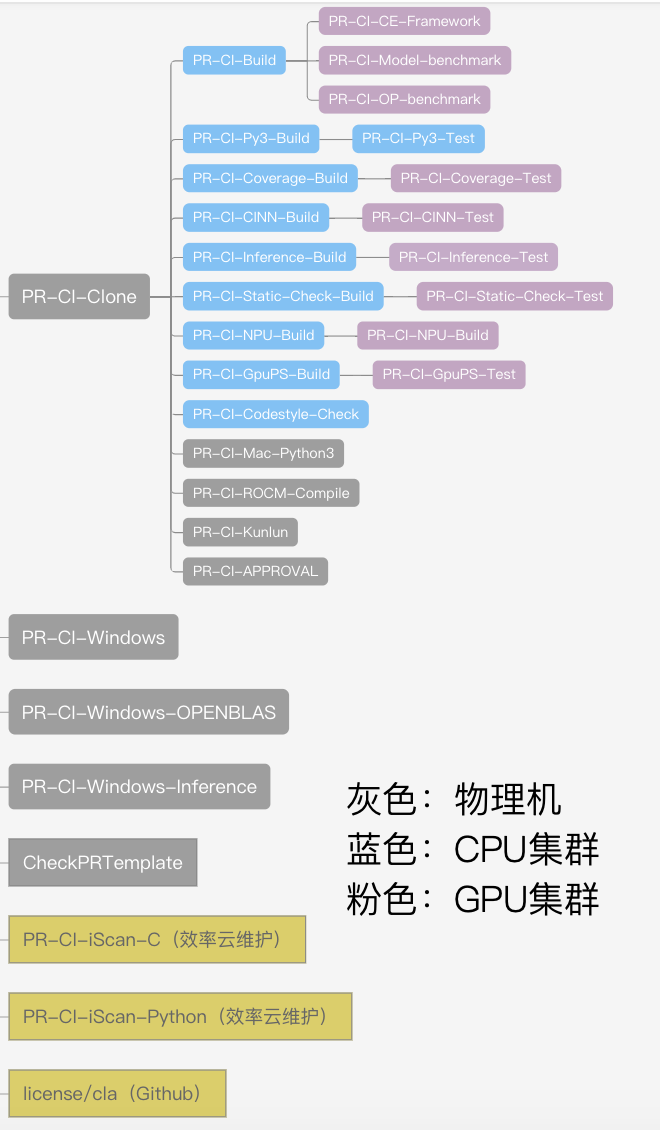
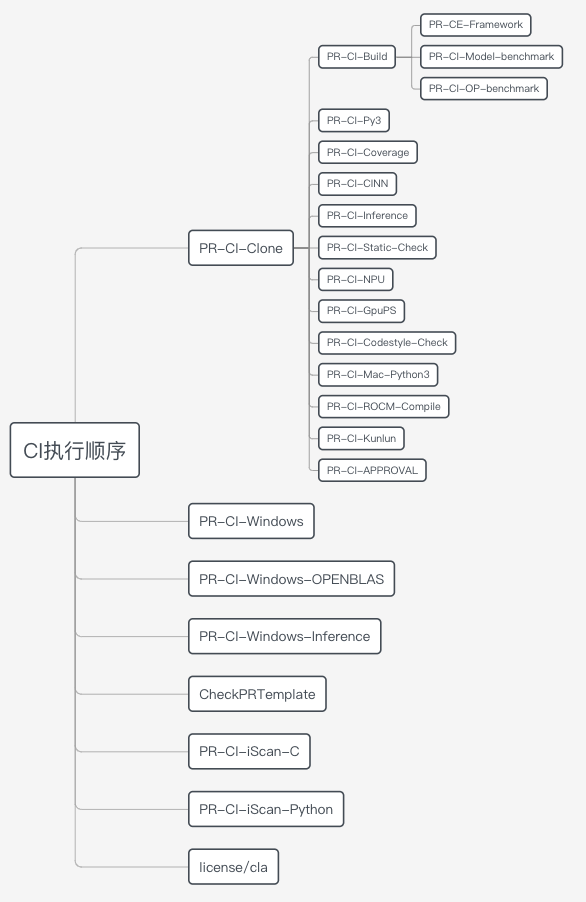
update ci_manual

diff --git a/docs/dev_guides/git_guides/paddle_ci_manual_cn.md b/docs/dev_guides/git_guides/paddle_ci_manual_cn.md
@@ -1,232 +1,149 @@
-# Paddle CI 手册
+# Paddle CI 测试详解
 
-## 整体介绍
+## 一、概述
 
-当你提交一个 PR`(Pull_Request)`，你的 PR 需要经过一些 CI`(Continuous Integration)`，以触发`develop`分支的为例为你展示 CI 执行的顺序：
+持续集成（Continuous Integration，简称 CI）测试是项目开发与发布流水线中的重要一环。[PaddlePaddle/Paddle](https://github.com/PaddlePaddle/Paddle) 是一个多人协作开发项目，为了尽可能保证合入主干的代码质量，提高代码合入效率，开发者在提交一个 PR（Pull Request）时，将自动触发必要的 CI 测试任务，主要检测：
+
+- 是否签署 CLA 协议。
+- PR 描述是否符合规范。
+- 是否通过不同平台`（Linux/Mac/Windows/XPU/NPU/DCU等）`的编译与单测（单元测试）。
+- 是否通过静态代码扫描工具的检测。
+
+CI 测试包含的具体测试任务和执行顺序如下图所示：
 
 ![ci_exec_order.png](../images/ci_exec_order.png)
 
-如上图所示，提交一个`PR`，你需要：
+如上图所示，CI 测试任务将从左向右逐层执行，同一层任务并发执行。
 
-- 签署 CLA 协议
-- PR 描述需要符合规范
-- 通过不同平台`（Linux/Mac/Windows/XPU/NPU 等）`的编译与单测
-- 通过静态代码扫描工具的检测
+> 说明：如果 PR 中仅修改了文档内容，可在 `git commit` 时在描述信息中添加 `'test=document_fix'`关键字，如 `git commit -m 'message, test=document_fix',`即可只触发 PR-CI-Static-Check，仅检查文档是否符合规范，不做其他代码检查。
 
-**<font color=red>需要注意的是：如果你的 PR 只修改文档部分，你可以在 commit 中添加说明（commit message）以只触发文档相关的 CI，写法如下：</font>**
+提交 PR 后，请关注 PR 页面的 CI 测试进程，一般会在几个小时内完成。
 
-```shell
-# PR 仅修改文档等内容，只触发 PR-CI-Static-Check
-git commit -m 'test=document_fix'
-```
+- 测试项后出现绿色的对勾，表示本条测试项通过。
+- 测试项后出现红色的叉号，并且后面显示 `Required`，则表示本条测试项不通过（不显示 `Required` 的任务未通过，也不影响代码合入，可不处理）。
 
-## 各流水线介绍
+为了便于理解和处理 CI 测试问题，本文将逐条介绍各个 CI 测试项，并提供 CI 测试不通过的参考解决方法。
 
-下面以触发`develop`分支为例，分平台对每条`CI`进行简单介绍。
+## 二、CI 测试项介绍
 
-### CLA
+下面分平台对每条 CI 测试项进行简单介绍。
 
-贡献者许可证协议[Contributor License Agreements](https://cla-assistant.io/PaddlePaddle/Paddle)是指当你要给 Paddle 贡献代码的时候，需要签署的一个协议。如果不签署那么你贡献给 Paddle 项目的修改，即`PR`会被 GitHub 标志为不可被接受，签署了之后，这个`PR`就是可以在 review 之后被接受了。
+### **license/cla**
+
+- **【条目描述】**首次为 [PaddlePaddle/Paddle](https://github.com/PaddlePaddle/Paddle) 仓库贡献时，需要签署 [贡献者许可协议（Contributor License Agreement，CLA）](https://cla-assistant.io/PaddlePaddle/Paddle)，才可以合入代码。
+- **【触发条件】**自动触发。
 
 ### CheckPRTemplate
 
-检查 PR 描述信息是否按照模板填写。
+- **【条目描述】**检查PR描述信息是否按照模板填写，模板如下：
 
-- 通常 10 秒内检查完成，如遇长时间未更新状态，请 re-edit 一下 PR 描述重新触发该 CI。
-
-```markdown
+```md
 ### PR types
 <!-- One of [ New features | Bug fixes | Function optimization | Performance optimization | Breaking changes | Others ] -->
-(必填)从上述选项中，选择并填写 PR 类型
+(必填)从上述选项中，选择并填写PR类型
 ### PR changes
 <!-- One of [ OPs | APIs | Docs | Others ] -->
-(必填)从上述选项中，选择并填写 PR 所修改的内容
+(必填)从上述选项中，选择并填写PR所修改的内容
 ### Describe
 <!-- Describe what this PR does -->
-(必填)请填写 PR 的具体修改内容
+(必填)请填写PR的具体修改内容
 ```
 
-### Linux 平台
+- **【触发条件】**自动触发。
+- **【注意事项】**通常 10 秒内检查完成，如遇长时间未更新状态，请编辑一下 PR 描述以重新触发。
+
+### Linux 平台测试项
 
 #### PR-CI-Clone
 
-该 CI 主要是将当前 PR 的代码从 GitHub clone 到 CI 机器，方便后续的 CI 直接使用。
-
-#### PR-CI-APPROVAL
-
-该 CI 主要的功能是检测 PR 中的修改是否通过了审批。在其他 CI 通过之前，你可以无需过多关注该 CI, 其他 CI 通过后会有相关人员进行 review 你的 PR。
-
-- 执行脚本：`paddle/scripts/paddle_build.sh assert_file_approvals`
+- **【条目描述】**将当前 PR 的代码从 GitHub Clone 到 CI 测试执行的机器，方便后续的 CI 直接使用。
+- **【触发条件】**自动触发。
 
 #### PR-CI-Build
 
-该 CI 主要是编译出当前 PR 的编译产物，并且将编译产物上传到 BOS（百度智能云对象存储）中，方便后续的 CI 可以直接复用该编译产物。
-
-- 执行脚本：`paddle/scripts/paddle_build.sh build_pr_dev`
-
-#### PR-CI-Py3
-
-该 CI 主要的功能是为了检测当前 PR 在 CPU、Python3 版本的编译与单测是否通过。
-
-- 执行脚本：`paddle/scripts/paddle_build.sh cicheck_py37`
-
-#### PR-CI-Coverage
-
-该 CI 主要的功能是检测当前 PR 在 GPU、Python3 版本的编译与单测是否通过，同时增量代码需满足行覆盖率大于 90%的要求。
-
-- 编译脚本：`paddle/scripts/paddle_build.sh cpu_cicheck_coverage`
-- 测试脚本：`paddle/scripts/paddle_build.sh gpu_cicheck_coverage`
+- **【条目描述】**生成当前 PR 的编译产物，并将编译产物上传到 BOS（百度智能云对象存储）中，方便后续的 CI 可以直接复用该编译产物。
+- **【执行脚本】**`paddle/scripts/paddle_build.sh build_pr_dev`
+- **【触发条件】**
+  - `PR-CI-Clone`通过后自动触发。
+  - 当PR-CI-Py3任务失败时，会取消当前任务（因PR-CI-Py3失败，当前任务成功也无法进行代码合并，需要先排查PR-CI-Py3失败原因）。
 
 #### PR-CE-Framework
 
-该 CI 主要是为了测试 P0 级框架 API 与预测 API 的功能是否通过。此 CI 使用`PR-CI-Build`的编译产物，无需单独编译。
-
-- 框架 API 测试脚本（[PaddlePaddle/PaddleTest](https://github.com/PaddlePaddle/PaddleTest)）：`PaddleTest/framework/api/run_paddle_ci.sh`
-- 预测 API 测试脚本（[PaddlePaddle/PaddleTest](https://github.com/PaddlePaddle/PaddleTest)）：`PaddleTest/inference/python_api_test/parallel_run.sh `
-
-#### PR-CI-OP-benchmark
-
-该 CI 主要的功能是 PR 中的修改是否会造成 OP 性能下降或者精度错误。此 CI 使用`PR-CI-Build`的编译产物，无需单独编译。
-
-- 执行脚本：`tools/ci_op_benchmark.sh run_op_benchmark`
-
-关于 CI 失败解决方案等详细信息可查阅[PR-CI-OP-benchmark Manual](https://github.com/PaddlePaddle/Paddle/wiki/PR-CI-OP-benchmark-Manual)
+- **【条目描述】**检测框架 API 与预测 API 的核心测试用例是否通过。
+- **【执行脚本】**
+  - [框架 API 测试](https://github.com/PaddlePaddle/PaddleTest)：`PaddleTest/framework/api/run_paddle_ci.sh`
+  - [预测 API 测试](https://github.com/PaddlePaddle/PaddleTest)：`PaddleTest/inference/python_api_test/parallel_run.sh `
+- **【触发条件】**`PR-CI-Build`通过后自动触发，并且使用`PR-CI-Build`的编译产物，无需单独编译。
 
 #### PR-CI-Model-benchmark
 
-该 CI 主要的功能是检测 PR 中的修改是否会导致模型性能下降或者运行报错。此 CI 使用`PR-CI-Build`的编译产物，无需单独编译。
+- **【条目描述】**检测 PR 中的修改是否会导致模型性能下降或者运行报错。
+- **【执行脚本】**`tools/ci_model_benchmark.sh run_all`
+- **【触发条件】**`PR-CI-Build`通过后自动触发，并且使用`PR-CI-Build`的编译产物，无需单独编译。
+- **【注意事项】**本条 CI 测试不通过的处理方法可查阅 [PR-CI-Model-benchmark Manual](https://github.com/PaddlePaddle/Paddle/wiki/PR-CI-Model-benchmark-Manual)。
 
-- 执行脚本：`tools/ci_model_benchmark.sh run_all`
+#### PR-CI-OP-benchmark
 
-关于 CI 失败解决方案等详细信息可查阅[PR-CI-Model-benchmark Manual](https://github.com/PaddlePaddle/Paddle/wiki/PR-CI-Model-benchmark-Manual)
+- **【条目描述】**检测 PR 中的修改是否会造成 OP 性能下降或者精度错误。
+- **【执行脚本】**`tools/ci_op_benchmark.sh run_op_benchmark`
+- **【触发条件】**`PR-CI-Build`通过后自动触发，并且使用`PR-CI-Build`的编译产物，无需单独编译。
+- **【注意事项】**本条 CI 测试不通过的处理方法可查阅 [PR-CI-OP-benchmark Manual](https://github.com/PaddlePaddle/Paddle/wiki/PR-CI-OP-benchmark-Manual)。
 
-#### PR-CI-Static-Check
+#### PR-CI-Py3
 
-该 CI 主要的功能是检查文档是否符合规范，检测`develop`分支与当前`PR`分支的增量的 API 英文文档是否符合规范，以及当变更 API 或 OP 时需要 TPM approval。
+- **【条目描述】**检测当前 PR 在 CPU、Python3 版本的编译与单测是否通过。
+- **【执行脚本】**`paddle/scripts/paddle_build.sh cicheck_py37`
+- **【触发条件】**`PR-CI-Clone`通过后自动触发。
 
-- 编译脚本：`paddle/scripts/paddle_build.sh build_and_check_cpu`
-- 示例文档检测脚本：`paddle/scripts/paddle_build.sh build_and_check_gpu`
+#### PR-CI-Coverage
 
-#### PR-CI-Codestyle-Check
-
-该 CI 主要的功能是检查提交代码是否符合规范，详细内容请参考[代码风格检查指南](./codestyle_check_guide_cn.html)。
-
-- 执行脚本：`paddle/scripts/paddle_build.sh build_and_check_gpu`
-
-#### PR-CI-CINN
-
-该 CI 主要是为了编译含 CINN 的 Paddle，并运行 Paddle-CINN 对接的单测，保证训练框架进行 CINN 相关开发的正确性。
-
-- 编译脚本：`paddle/scripts/paddle_build.sh build_only`
-- 测试脚本：`paddle/scripts/paddle_build.sh test`
-
-#### PR-CI-Inference
-
-该 CI 主要的功能是为了检测当前 PR 对 C++预测库与训练库的编译和单测是否通过。
-
-- 编译脚本：`paddle/scripts/paddle_build.sh build_inference`
-- 测试脚本：`paddle/scripts/paddle_build.sh gpu_inference`
-
-#### PR-CI-GpuPS
-
-该 CI 主要是为了保证 GPUBOX 相关代码合入后编译可以通过。
-
-- 编译脚本：`paddle/scripts/paddle_build.sh build_gpubox`
-
-### MAC
-
-#### PR-CI-Mac-Python3
-
-该 CI 是为了检测当前 PR 在 MAC 系统下 python35 版本的编译与单测是否通过，以及做 develop 与当前 PR 的单测增量检测，如有不同，提示需要 approval。
-
-- 执行脚本：`paddle/scripts/paddle_build.sh maccheck_py35`
-
-### Windows
-
-#### PR-CI-Windows
-
-该 CI 是为了检测当前 PR 在 Windows 系统下 MKL 版本的 GPU 编译与单测是否通过，以及做 develop 与当前 PR 的单测增量检测，如有不同，提示需要 approval。
-
-- 执行脚本：`paddle/scripts/paddle_build.bat wincheck_mkl`
-
-#### PR-CI-Windows-OPENBLAS
-
-该 CI 是为了检测当前 PR 在 Windows 系统下 OPENBLAS 版本的 CPU 编译与单测是否通过。
-
-- 执行脚本：`paddle/scripts/paddle_build.bat wincheck_openblas`
-
-#### PR-CI-Windows-Inference
-
-该 CI 是为了检测当前 PR 在 Windows 系统下预测模块的编译与单测是否通过。
-
-- 执行脚本：`paddle/scripts/paddle_build.bat wincheck_inference`
-
-### XPU 机器
-
-#### PR-CI-Kunlun
-
-该 CI 主要的功能是检测 PR 中的修改能否在昆仑芯片上编译与单测通过。
-
-- 执行脚本：`paddle/scripts/paddle_build.sh check_xpu_coverage`
-
-### NPU 机器
-
-#### PR-CI-NPU
-
-该 CI 主要是为了检测当前 PR 对 NPU 代码编译跟测试是否通过。
-
-- 编译脚本：`paddle/scripts/paddle_build.sh build_only`
-- 测试脚本：`paddle/scripts/paddle_build.sh gpu_cicheck_py35`
-
-### Sugon-DCU 机器
-
-#### PR-CI-ROCM-Compile
-
-该 CI 主要的功能是检测 PR 中的修改能否在曙光芯片上编译通过。
-
-- 执行脚本：`paddle/scripts/musl_build/build_paddle.sh build_only`
-
-### 静态代码扫描
-
-#### PR-CI-iScan-C
-
-该 CI 是为了检测当前 PR 的 C++代码是否可以通过静态代码扫描。
-
-#### PR-CI-iScan- Python
-
-该 CI 是为了检测当前 PR 的 Python 代码是否可以通过静态代码扫描。
+- **【条目描述】**检测当前 PR 在 GPU、Python3 版本的编译与单测是否通过，同时增量代码需满足行覆盖率大于 90% 的要求。可在 PR 页面点击该 CI 后的 details 查看覆盖率，如下图所示：
 
 
+- **【条目描述】**检测当前 PR 的 C++ 代码是否通过 [静态代码扫描](https://clang-analyzer.llvm.org/)。
+- **【触发条件】**自动触发。
 
-## CI 失败如何处理
-### CLA 失败
+#### PR-CI-iScan-Python
 
-- 如果你的 cla 一直是 pending 状态，那么需要等其他 CI 都通过后，点击 Close pull request ，再点击 Reopen pull request ，并等待几分钟（建立在你已经签署 cla 协议的前提下）；如果上述操作重复 2 次仍未生效，请重新提一个 PR 或评论区留言。
-- 如果你的 cla 是失败状态，可能原因是你提交 PR 的账号并非你签署 cla 协议的账号，如下图所示：
-![cla.png](./images/cla.png)
-- 建议你在提交 PR 前设置：
+- **【条目描述】**检测当前 PR 的 Python 代码是否通过 [静态代码扫描](https://pylint.pycqa.org/)。
+- **【触发条件】**自动触发。
 
-```
-git config –local user.email 你的邮箱
-git config –local user.name 你的名字
+## 三、CI 失败如何处理
+
+### 3.1 CLA 失败
+
+- 如果 PR 中 license/cla 检测项一直是 pending 状态，那么需要等其他 CI 项都通过后，点击 `Close pull request`，再点击 `Reopen pull request`，并等待几分钟（前提是你已经签署 CLA 协议）。如果上述操作重复 2 次仍未生效，请重新提一个 PR 或在评论区留言。
+- 如果 PR 中 license/cla 是失败状态，可能原因是提交 PR 的 GitHub 账号与签署 CLA 协议的账号不一致，如下图所示：
+
+![cla.png](../images/cla.png)
+
+建议在提交 PR 前设置：
+
+```plain
+git config --local user.email 你的GitHub邮箱
+git config --local user.name 你的GitHub名字
 ```
 
-### CheckPRTemplate 失败
+### 3.2 CheckPRTemplate 失败
 
-如果你的`CheckPRTemplate`状态一直未变化，这是由于通信原因状态未返回到 GitHub。你只需要重新编辑一下 PR 描述保存后就可以重新触发该条 CI，步骤如下：
+如果 PR 中`CheckPRTemplate`状态一直未变化，这是由于通信原因，状态未返回到 GitHub。只需要重新编辑保存一下 PR 描述后，就可以重新触发该条 CI，步骤如下：
+
 ![checkPRtemplate1.png](../images/checkPRtemplate1.png)
+
 ![checkPRTemplate2.png](../images/checkPRTemplate2.png)
 
-### 其他 CI 失败
+### 3.3 其他 CI 失败
 
-当你的`PR`的 CI 失败时，`paddle-bot`会在你的`PR`页面发出一条评论，同时此评论 GitHub 会同步到你的邮箱，让你第一时间感知到`PR`的状态变化（注意：只有第一条 CI 失败的时候会发邮件，之后失败的 CI 只会更新`PR`页面的评论。）
+当 PR 中 CI 失败时，`paddle-bot`会在 PR 页面发出一条评论，同时 GitHub 会发送到你的邮箱，让你第一时间感知到 PR 的状态变化。
+
+> 注意：只有 PR 中第一条 CI 失败的时候会发邮件，之后失败的 CI 项只会更新在 PR 页面的评论中。
+
+可通过点击`paddle-bot`评论中的 CI 名称，也可通过点击 CI 列表中的`Details`来查看 CI 的运行日志，如下图所示。
 
 ![paddle-bot-comment.png](../images/paddle-bot-comment.png)
 
 ![ci-details.png](../images/ci-details.png)
 
-你可以通过点击`paddle-bot`评论中的 CI 名字，也可通过点击 CI 列表中的`Details`来查看 CI 的运行日志，如上图。通常运行日志的末尾会告诉你 CI 失败的原因。
-
-由于网络代理、机器不稳定等原因，有时候 CI 的失败也并不是你的`PR`自身的原因，这时候你只需要 rerun 此 CI 即可（你需要将你的 GitHub 授权于效率云 CI 平台）。
+之后会跳转到日志查看页面，通常在运行日志的末尾会提示 CI 失败的原因，参考提示信息解决即可。由于网络代理、机器不稳定等原因，有时候 CI 的失败也并不是 PR 自身的原因，此时只需要`重新构建`此 CI 即可（需要将你的 GitHub 授权于效率云 CI 平台），如下图所示。
 
 ![rerun.png](../images/rerun.png)
